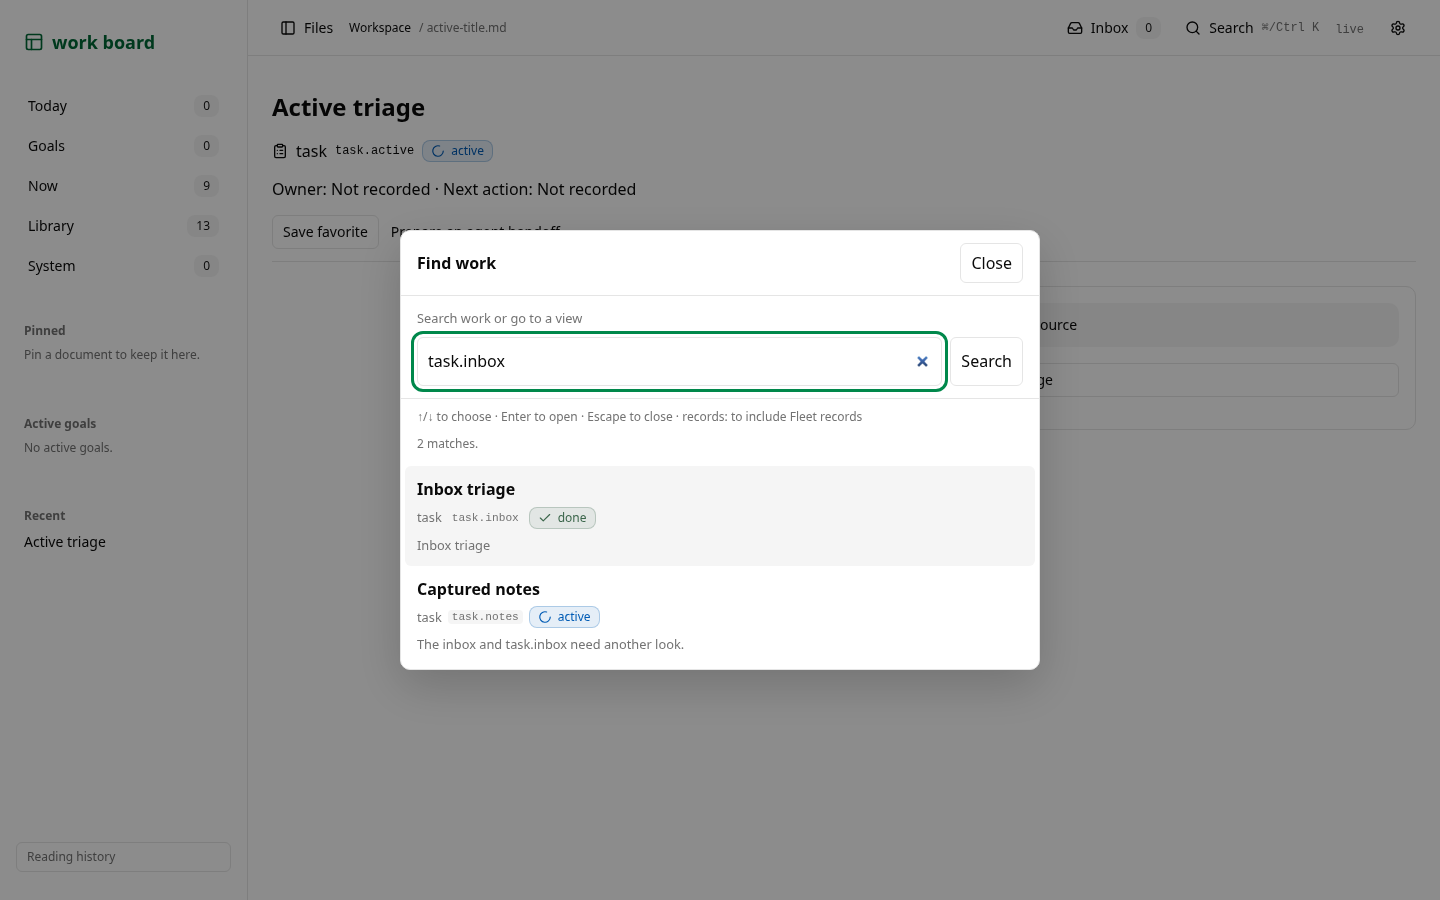
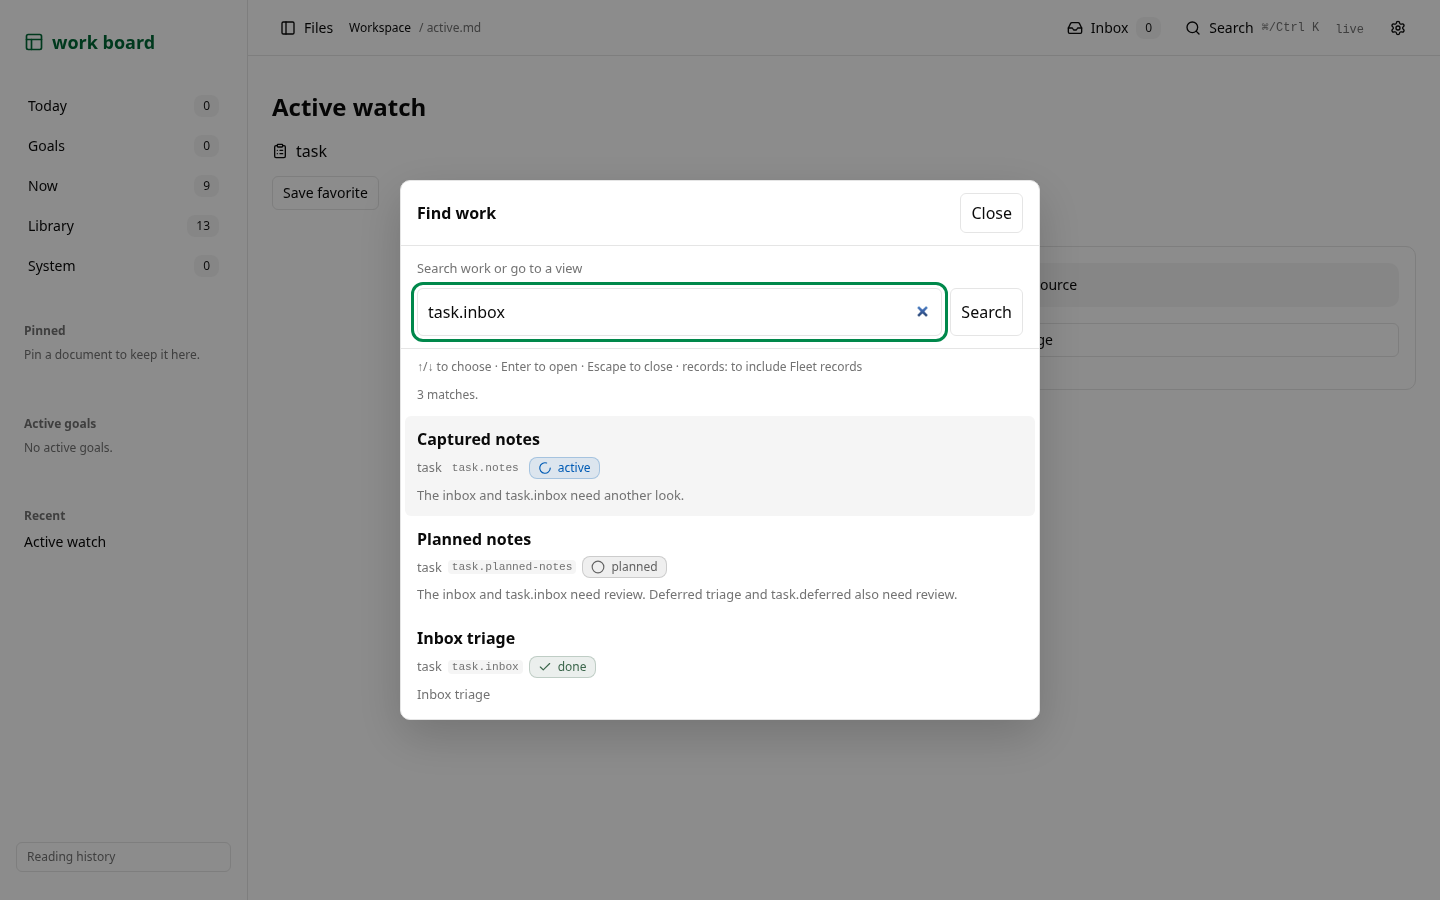
Rank open work before closed title and ID matches

Changed region(s): [[0.1875, 0.1556, 0.75, 0.8089], [0.25, 0.0933, 0.2812, 0.1244]]

diff --git a/packages/work-board/src/server/search/ranking.spec.ts b/packages/work-board/src/server/search/ranking.spec.ts
@@ -4,7 +4,7 @@ import { fixtureSnapshot } from "#test/fixtureSnapshot.ts";
 import { identityRankingFixture, searchRankingFixture } from "#test/searchRankingFixture.ts";
 import { searchMatch } from "./match.ts";
 
-it.live("ranks title matches before body matches, then open work and most recently changed sources", function* () {
+it.live("ranks open work before closed or deferred work, then title matches and most recently changed sources", function* () {
 	const { files, modified } = searchRankingFixture();
 	const snapshot = yield* fixtureSnapshot(files, undefined, modified);
 	const results = searchMatch(snapshot.entries, "watch", snapshot.modified).results;
@@ -14,24 +14,41 @@ it.live("ranks title matches before body matches, then open work and most recent
 		"needs-you.md",
 		"active.md",
 		"held.md",
+		"open-body.md",
 		"done.md",
 		"deferred.md",
 		"superseded.md",
-		"open-body.md",
 		"done-body.md",
 	]);
 });
 
-const states = ["active", "done", "deferred"];
-it.live.each(states.flatMap((titleStatus) => states.map((passageStatus) => ({ passageStatus, titleStatus }))))(
-	"ranks a $titleStatus title or ID match before a newer $passageStatus passage",
-	function* ({ passageStatus, titleStatus }) {
-		const { files, modified } = identityRankingFixture(titleStatus, passageStatus);
-		const snapshot = yield* fixtureSnapshot(files, undefined, modified);
-		for (const query of ["inbox", "task.inbox"]) {
-			const results = searchMatch(snapshot.entries, query, snapshot.modified).results;
-			expect(results[0]).toMatchObject({ id: "task.inbox", kind: "document", status: titleStatus, title: "Inbox triage" });
-			expect(results.some((entry) => entry.file === "passage.md" && entry.kind === "passage")).toBe(true);
-		}
-	},
-);
+it.live.each([
+	{ first: "task.inbox", passageStatus: "planned", titleStatus: "planned" },
+	{ first: "task.inbox", passageStatus: "active", titleStatus: "planned" },
+	{ first: "task.inbox", passageStatus: "done", titleStatus: "planned" },
+	{ first: "task.inbox", passageStatus: "deferred", titleStatus: "planned" },
+	{ first: "task.inbox", passageStatus: "planned", titleStatus: "active" },
+	{ first: "task.inbox", passageStatus: "active", titleStatus: "active" },
+	{ first: "task.inbox", passageStatus: "done", titleStatus: "active" },
+	{ first: "task.inbox", passageStatus: "deferred", titleStatus: "active" },
+	{ first: "task.notes", passageStatus: "planned", titleStatus: "done" },
+	{ first: "task.notes", passageStatus: "active", titleStatus: "done" },
+	{ first: "task.inbox", passageStatus: "done", titleStatus: "done" },
+	{ first: "task.inbox", passageStatus: "deferred", titleStatus: "done" },
+	{ first: "task.notes", passageStatus: "planned", titleStatus: "deferred" },
+	{ first: "task.notes", passageStatus: "active", titleStatus: "deferred" },
+	{ first: "task.inbox", passageStatus: "done", titleStatus: "deferred" },
+	{ first: "task.inbox", passageStatus: "deferred", titleStatus: "deferred" },
+])("ranks $titleStatus title/ID and $passageStatus passage matches by status, then relevance", function* ({ first, passageStatus, titleStatus }) {
+	const { files, modified } = identityRankingFixture(titleStatus, passageStatus);
+	const snapshot = yield* fixtureSnapshot(files, undefined, modified);
+	for (const query of ["inbox", "task.inbox"]) {
+		const results = searchMatch(snapshot.entries, query, snapshot.modified).results;
+		expect(results[0]?.id).toBe(first);
+		expect(results.find((entry) => entry.id === "task.inbox" && entry.kind === "document")).toMatchObject({
+			status: titleStatus,
+			title: "Inbox triage",
+		});
+		expect(results.find((entry) => entry.id === "task.notes")).toMatchObject({ kind: "passage", status: passageStatus });
+	}
+});

diff --git a/packages/work-board/src/client/react/searchRanking.dom.spec.tsx b/packages/work-board/src/client/react/searchRanking.dom.spec.tsx
@@ -9,14 +9,24 @@ Object.assign(globalThis, { "IS_REACT_ACT_ENVIRONMENT": true });
 expectNoReactWarnings();
 
 it.each([
-	{ first: "A running watch sees reviews finish", fixture: searchRankingFixture(), queries: ["watch"], status: "planned" },
+	{ first: "A running watch sees reviews finish", fixture: searchRankingFixture(), id: "", queries: ["watch"], status: "planned" },
 	...["active", "done", "deferred"].map((status) => ({
 		first: "Inbox triage",
-		fixture: identityRankingFixture(status, "active"),
+		fixture: identityRankingFixture(status, status),
+		id: "task.inbox",
 		queries: ["inbox", "task.inbox"],
 		status,
 	})),
-])("ranks title and ID matches first, then status and recency ($status)", async ({ fixture, first, queries, status }) => {
+	...["planned", "active"].flatMap((passageStatus) =>
+		["done", "deferred"].map((titleStatus) => ({
+			first: "Captured notes",
+			fixture: identityRankingFixture(titleStatus, passageStatus),
+			id: "task.notes",
+			queries: ["inbox", "task.inbox"],
+			status: passageStatus,
+		})),
+	),
+])("ranks status first, then title/ID relevance and recency ($status, $id)", async ({ fixture, first, id, queries, status }) => {
 	const { files, modified } = fixture;
 	const view = await renderBoard(
 		files,
@@ -51,14 +61,15 @@ it.each([
 					"Watch needs you",
 					"Active watch",
 					"Held watch",
+					"Keep reviews visible",
 					"Done watch",
 					"Deferred watch",
 					"Superseded watch",
-					"Keep reviews visible",
 					"Finished",
 				]);
 			} else {
-				expect(rows[0]?.querySelector("code")?.textContent).toBe("task.inbox");
+				expect(rows[0]?.querySelector("code")?.textContent).toBe(id);
+				expect(rows.some((row) => row.querySelector("strong")?.textContent === "Inbox triage")).toBe(true);
 				expect(rows.some((row) => row.querySelector("strong")?.textContent === "Captured notes")).toBe(true);
 			}
 		}

diff --git a/packages/work-board/src/server/search/match.ts b/packages/work-board/src/server/search/match.ts
@@ -39,7 +39,7 @@ export function searchMatch(entries: readonly Entry[], query: string, modified: 
 		})
 		.sort(
 			(left, right) =>
-				left.title - right.title || left.group - right.group || right.modified - left.modified || left.rank - right.rank || left.order - right.order,
+				left.group - right.group || left.title - right.title || right.modified - left.modified || left.rank - right.rank || left.order - right.order,
 		);
 	return { results: matches.slice(0, 40).map((match) => match.entry), total: matches.length };
 }

diff --git a/packages/work-board/README.md b/packages/work-board/README.md
@@ -159,7 +159,7 @@ Use ordinary image Markdown for source-relative PNG, JPEG, GIF or WebP files. Th
 
 ### 3. Every day: read, compare and give direction
 
-**Search** or Ctrl/Cmd+K opens the command palette. Go-to commands open Today (Inbox), Goals, Now (Work board), Library (workspace documents), System (Diagnostics) and each open goal from the goals query. Appearance commands toggle the file sidebar, density and theme. Results update as you type; matching commands come first. Search finds document titles/paths, IDs, headings, passages and recorded work fields. Matching uses the first 200 query characters and up to eight terms; each term must occur in a block, ignoring case. Item title and ID matches rank before body matches regardless of status. Within each relevance group, open work ranks before closed and deferred work, followed by the most recently changed sources; document, heading and passage order breaks remaining ties. Item results show their ID, kind and authored status. Fleet decisions, captured questions, responses and application receipts appear only when the query starts with `records:`. Snippets omit structured metadata. At most 40 source results are shown with the full match count. Arrow keys choose, Enter opens, and Escape closes. Incomplete reads are disclosed, and older requests cannot replace a newer query. Search requires JavaScript. `src/server/search/palette.spec.ts`, `src/server/search/ranking.spec.ts`, `src/client/react/palette.dom.spec.tsx` and `src/client/react/searchRanking.dom.spec.tsx` cover record filtering, ranking, snippets and commands with fixtures.
+**Search** or Ctrl/Cmd+K opens the command palette. Go-to commands open Today (Inbox), Goals, Now (Work board), Library (workspace documents), System (Diagnostics) and each open goal from the goals query. Appearance commands toggle the file sidebar, density and theme. Results update as you type; matching commands come first. Search finds document titles/paths, IDs, headings, passages and recorded work fields. Matching uses the first 200 query characters and up to eight terms; each term must occur in a block, ignoring case. Open work ranks before closed and deferred work, including when open passages match a closed item's title or ID. Within each status group, item title and ID matches come first, followed by the most recently changed sources; document, heading and passage order breaks remaining ties. Item results show their ID, kind and authored status. Fleet decisions, captured questions, responses and application receipts appear only when the query starts with `records:`. Snippets omit structured metadata. At most 40 source results are shown with the full match count. Arrow keys choose, Enter opens, and Escape closes. Incomplete reads are disclosed, and older requests cannot replace a newer query. Search requires JavaScript. `src/server/search/palette.spec.ts`, `src/server/search/ranking.spec.ts`, `src/client/react/palette.dom.spec.tsx` and `src/client/react/searchRanking.dom.spec.tsx` cover record filtering, ranking, snippets and commands with fixtures.
 
 Back restores selected text and expanded details. Reading history opens a bounded dialog with favorites and up to ten unique recents. Favorites and recents belong to the workspace/origin; deleted favorites remain labeled missing. Save up to ten named Work views with the applied board, filters, sort and layout. Selection stays in the URL, and saving the same name updates it. At capacity, remove or update a view; none is silently evicted. Unavailable storage is disclosed, with controls usable for the current page.
 

diff --git a/packages/work-board/changes/work-search.md b/packages/work-board/changes/work-search.md
@@ -4,4 +4,4 @@
 
 ### Fixed
 
-- Search ranks title and ID matches before body matches regardless of status, then open work before closed and deferred work and recently changed sources before older ones, excludes Fleet records unless the query starts with `records:`, and omits structured metadata from snippets.
+- Search ranks open work before closed and deferred work, then title and ID matches before body matches within each status group, then recently changed sources before older ones, excludes Fleet records unless the query starts with `records:`, and omits structured metadata from snippets.
